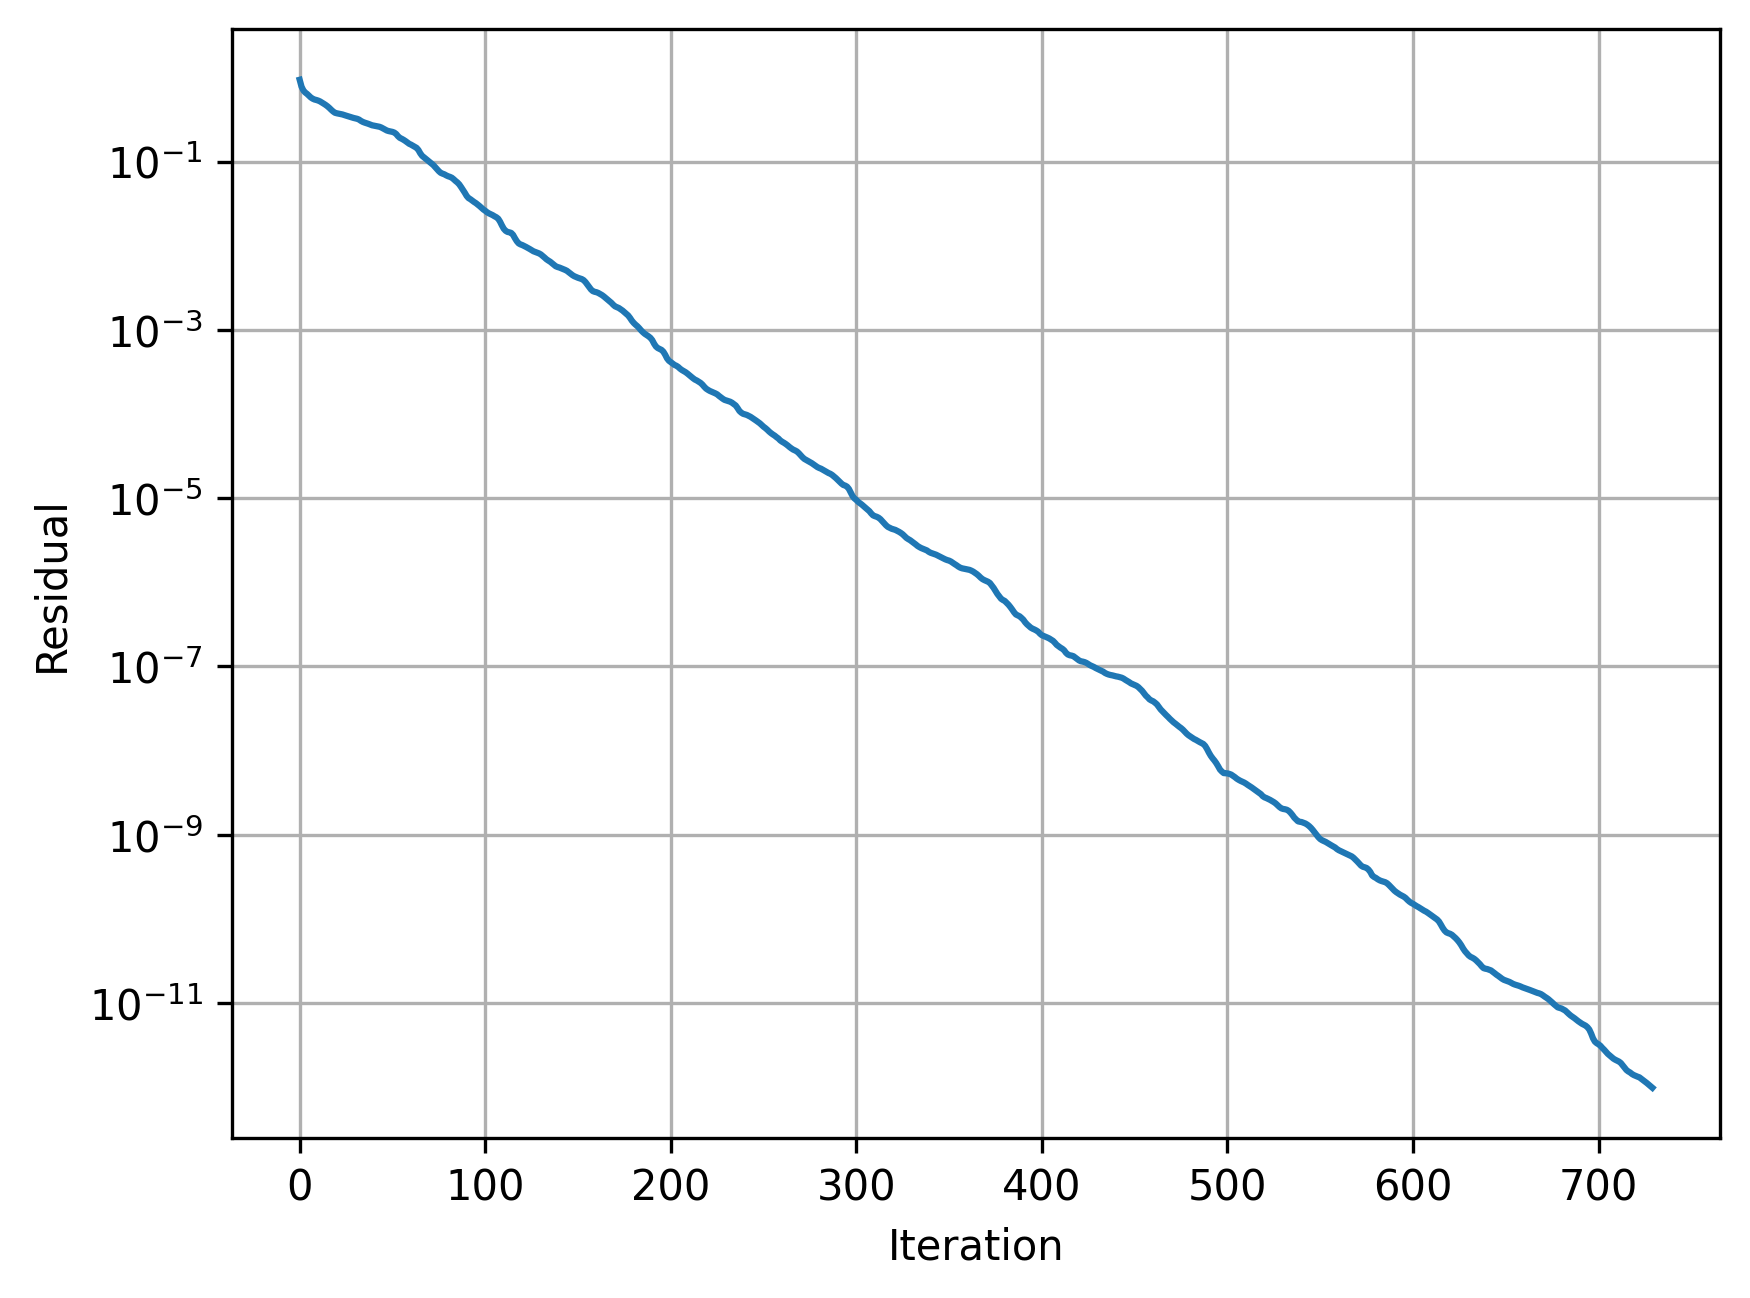
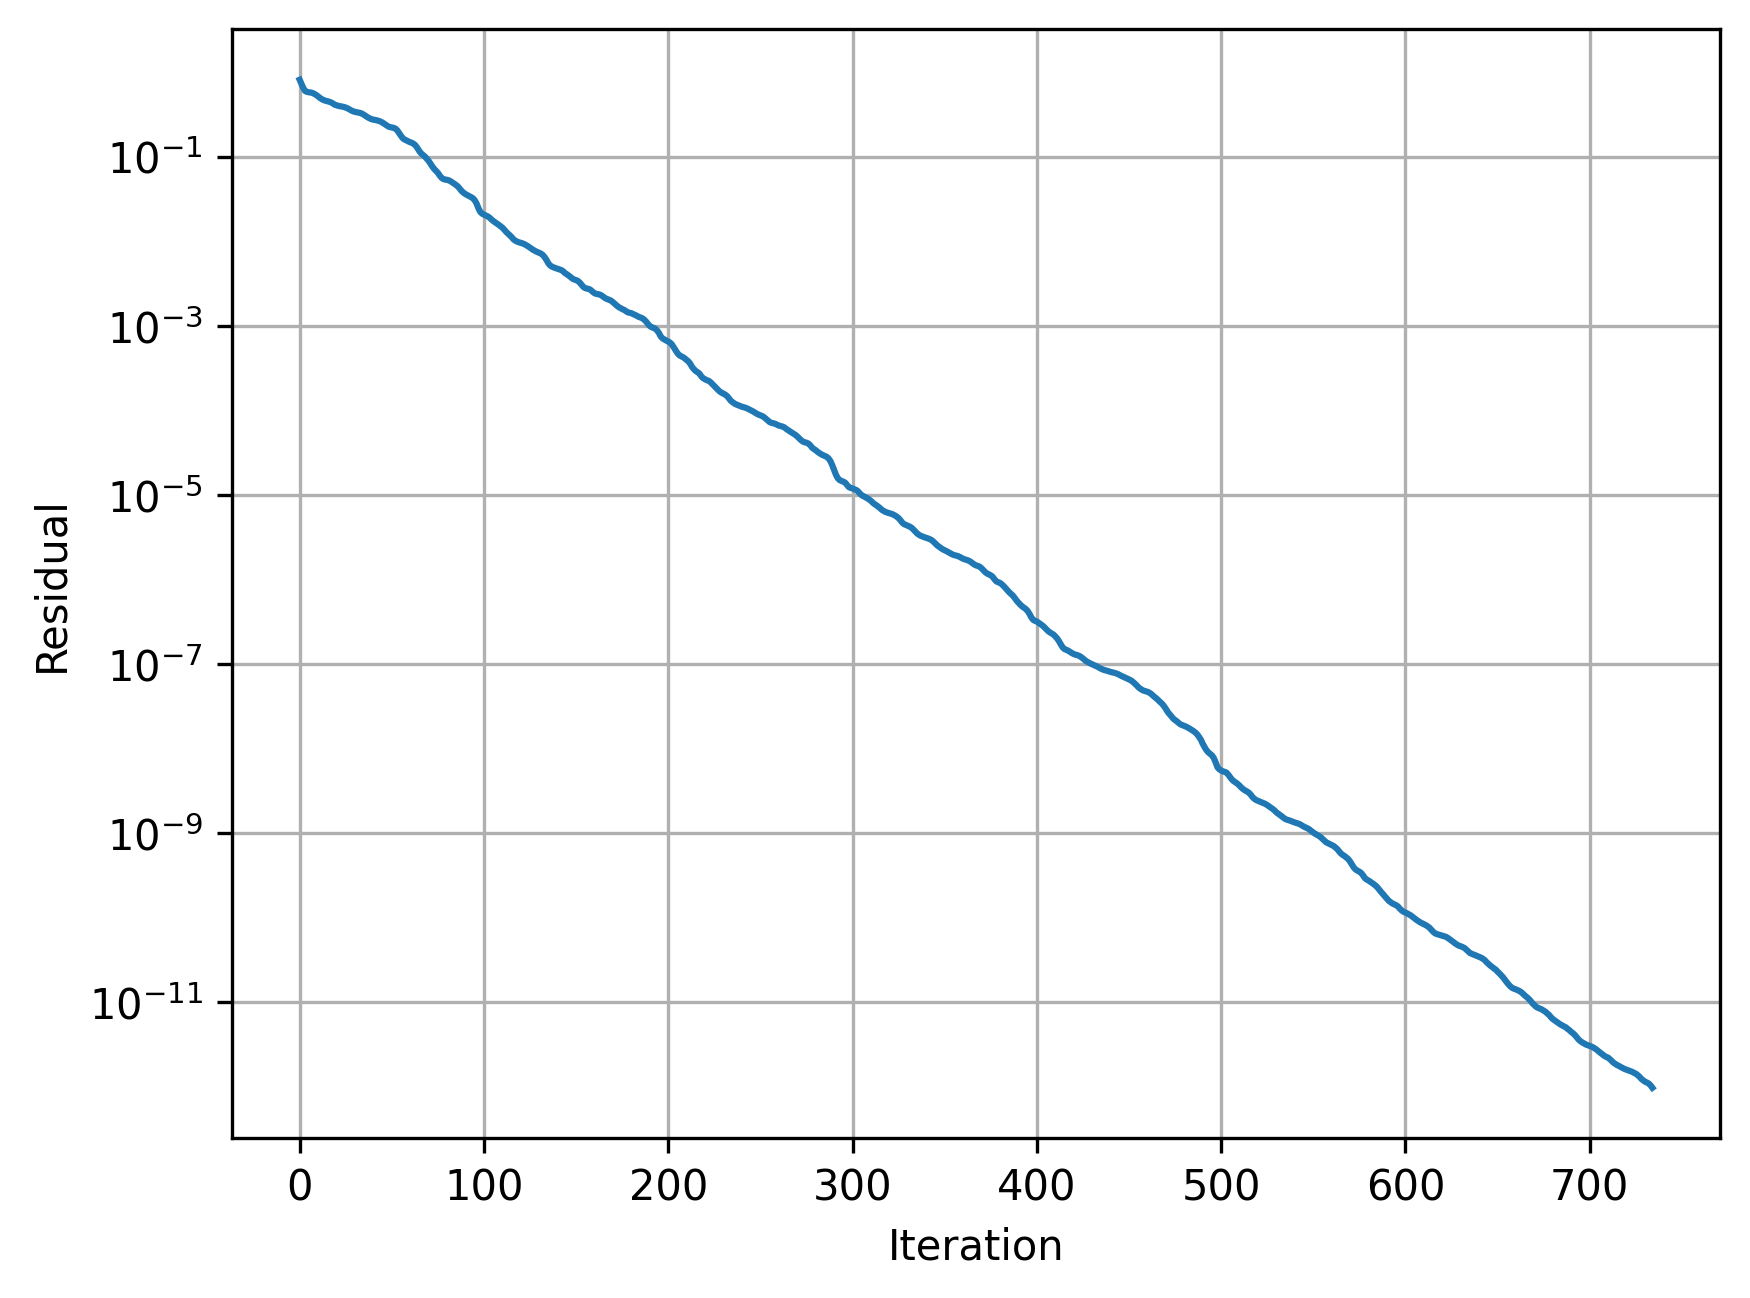
added utils

diff --git a/project2/main.py b/project2/main.py
@@ -8,57 +8,33 @@ from matplotlib import cm
 import matplotlib.pyplot as plt
 import matplotlib.tri as mtri
 from mpi4py import MPI
+from utils import mesh, mass, stiffness, plot_mesh, point_source
 
+#Global Variables
 na = np.newaxis
 comm = MPI.COMM_WORLD
 rank = comm.Get_rank()
 size = comm.Get_size()
 
-
-def mesh(nx,ny,Lx,Ly):
-   i = np.arange(0,nx)[na,:] * np.ones((ny,1), np.int64)
-   j = np.arange(0,ny)[:,na] * np.ones((1,nx), np.int64)
-   p = np.zeros((2,ny-1,nx-1,3), np.int64)
-   q = i+nx*j
-   p[:,:,:,0] = q[:-1,:-1]
-   p[0,:,:,1] = q[1: ,1: ]
-   p[0,:,:,2] = q[1: ,:-1]
-   p[1,:,:,1] = q[:-1,1: ]
-   p[1,:,:,2] = q[1: ,1: ]
-   v = np.concatenate(((Lx/(nx-1)*i)[:,:,na], (Ly/(ny-1)*j)[:,:,na]), axis=2)
-   vtx = np.reshape(v, (nx*ny,2))
-   elt = np.reshape(p, (2*(nx-1)*(ny-1),3))
-   return vtx, elt 
-
-
-
-
 def local_mesh(Lx, Ly, nx, ny):
     # Get MPI parameters
     J = size
     j = rank
-
     # Number of points per subdomain in y (with interface sharing)
     ny_loc = (ny - 1) // J + 1
-
     # Local vertical size
     Ly_loc = Ly / J
-
     # Build local mesh
     vtx_loc, elt_loc = mesh(nx, ny_loc, Lx, Ly_loc)
-
     # Shift to global y-position
     vtx_loc[:, 1] += j * Ly_loc
-
     return vtx_loc, elt_loc
 
 
 def local_boundary(nx, ny, j, J):
     ny_loc = (ny - 1) // J + 1
-
     phys = []
     artf = []
-
     # Bottom boundary 
     # important to notice that only the first subdomain has physical bottom boundary
     for i in range(nx - 1):
@@ -67,7 +43,6 @@ def local_boundary(nx, ny, j, J):
             phys.append(edge)
         else:
             artf.append(edge)
-
     # Top boundary
     # important to notice that only the last subdomain has physical top boundary
     offset = (ny_loc - 1) * nx
@@ -77,15 +52,12 @@ def local_boundary(nx, ny, j, J):
             phys.append(edge)
         else:
             artf.append(edge)
-
     # Left-Right boundary (always physical)
     for k in range(ny_loc - 1):
         phys.append([k * nx, (k + 1) * nx])
-
     for k in range(ny_loc - 1):
         phys.append([k * nx + nx - 1,
                      (k + 1) * nx + nx - 1])
-
     return np.array(phys, dtype=int), np.array(artf, dtype=int)
 
 
@@ -96,15 +68,12 @@ def Rj_matrix(nx, ny, j, J):
     #  Define the mapping (Local index i maps to Global index k)
     # Local indices are simply 0, 1, 2... nv_loc-1
     rows = np.arange(0, nv_loc, 1, dtype=np.int64)
-    
     # Global indices are shifted based on the subdomain index 'j'
     # The shift (ny_loc - 1) * nx moves the "window" down the global vector
     cols = rows + j * (ny_loc - 1) * nx
-    
     # Fill the matrix with 1s
     # Each row of Rj has a single '1' at the column corresponding to the global node
     data = np.ones(nv_loc, dtype=np.float64)
-    
     # Create the Sparse Matrix
     # Shape is (local_nodes, global_nodes)
     Rj = csr_matrix((data, (rows, cols)), shape=(nv_loc, nv), dtype=np.float64)
@@ -128,7 +97,6 @@ def Cj_matrix(nx, ny, j, J):
     nv_loc = nx * ny_loc
     sizeCrow = (J - 1) * nx
     sizeCcol = nx if j == 0 or j == J - 1 else 2 * nx   
-
     rows = np.arange(0, sizeCrow, 1, dtype=np.int64)
     cols = np.zeros(sizeCcol, dtype=np.int64)
     if j == 0:
@@ -138,84 +106,10 @@ def Cj_matrix(nx, ny, j, J):
     else:
         cols[:nx] = np.arange(0, nx, 1, dtype=np.int64)
         cols[nx:] = np.arange((ny_loc - 1) * nx, ny_loc * nx, 1, dtype=np.int64)
-    
     data = np.ones(sizeCrow, dtype=np.float64)
     Cj = csr_matrix((data, (rows, cols)), shape=(sizeCrow, sizeCcol), dtype=np.float64)
     return Cj
 
-def boundary(nx, ny):
-    bottom = np.hstack((np.arange(0,nx-1,1)[:,na],
-                        np.arange(1,nx,1)[:,na]))
-    top    = np.hstack((np.arange(nx*(ny-1),nx*ny-1,1)[:,na],
-                        np.arange(nx*(ny-1)+1,nx*ny,1)[:,na]))
-    left   = np.hstack((np.arange(0,nx*(ny-1),nx)[:,na],
-                        np.arange(nx,nx*ny,nx)[:,na]))
-    right  = np.hstack((np.arange(nx-1,nx*(ny-1),nx)[:,na],
-                        np.arange(2*nx-1,nx*ny,nx)[:,na]))
-    return np.vstack((bottom, top, left, right))
-
-def get_area(vtx, elt):
-    d = np.size(elt, 1)
-    if d == 2:
-        e = vtx[elt[:, 1], :] - vtx[elt[:, 0], :]
-        areas = la.norm(e, axis=1)
-    else:
-        e1 = vtx[elt[:, 1], :] - vtx[elt[:, 0], :]
-        e2 = vtx[elt[:, 2], :] - vtx[elt[:, 0], :]
-        areas = 0.5 * np.abs(e1[:,0] * e2[:,1] - e1[:,1] * e2[:,0])
-    return areas
-
-def mass(vtx, elt):
-    nv = np.size(vtx, 0)
-    d = np.size(elt, 1)
-    areas = get_area(vtx, elt)
-    M = csr_matrix((nv, nv), dtype=np.float64)
-    for j in range(d):
-        for k in range(d):
-           row = elt[:,j]
-           col = elt[:,k]
-           val = areas * (1 + (j == k)) / (d*(d+1))
-           M += csr_matrix((val, (row, col)), shape=(nv, nv))
-    return M
-
-def stiffness(vtx, elt):
-    nv = np.size(vtx, 0)
-    d = np.size(elt, 1)
-    areas = get_area(vtx, elt)
-    ne, d = np.shape(elt)
-    E = np.empty((ne, d, d-1), dtype=np.float64)
-    E[:,0,:] = 0.5 * (vtx[elt[:,1],0:2] - vtx[elt[:,2],0:2])
-    E[:,1,:] = 0.5 * (vtx[elt[:,2],0:2] - vtx[elt[:,0],0:2])
-    E[:,2,:] = 0.5 * (vtx[elt[:,0],0:2] - vtx[elt[:,1],0:2])
-    K = csr_matrix((nv, nv), dtype=np.float64)
-    for j in range(d):
-        for k in range(d):
-           row = elt[:,j]
-           col = elt[:,k]
-           val = np.sum(E[:,j,:] * E[:,k,:], axis=1) / areas
-           K += csr_matrix((val, (row, col)), shape=(nv, nv))
-    return K
-
-def point_source(sp, k):    
-    def ps(x):
-        v = np.zeros(np.size(x,0), float)
-        for s in sp:
-            v += s[2]*np.exp(-10*(k/(2.0*pi))**2 * la.norm(x - s[na,0:2], axis=1)**2)
-        return v
-    return ps 
-
-def plot_mesh(vtx, elt, val=None, **kwargs):
-    trig = mtri.Triangulation(vtx[:, 0], vtx[:, 1], elt)
-    if val is None:
-        plt.triplot(trig, **kwargs)
-    else:
-        plt.tripcolor(
-            trig, val,
-            shading='gouraud',
-            cmap=cm.jet,
-            **kwargs
-        )
-    plt.axis('equal')
 
 
 
@@ -224,7 +118,7 @@ def plot_mesh(vtx, elt, val=None, **kwargs):
 
 
 if __name__ == "__main__":
-    np.random.seed(1)
+    np.random.seed(1234)
     Lx = 1
     Ly = 2
     nx = int(1 + Lx * 32)

diff --git a/project2/utils.py b/project2/utils.py
@@ -1,0 +1,100 @@
+#! /usr/bin/python3
+from math import pi
+import numpy as np
+import numpy.linalg as la
+import scipy.sparse.linalg as spla
+from scipy.sparse import csr_matrix, csc_matrix
+from matplotlib import cm
+import matplotlib.pyplot as plt
+import matplotlib.tri as mtri
+na = np.newaxis
+
+
+def mesh(nx,ny,Lx,Ly):
+   i = np.arange(0,nx)[na,:] * np.ones((ny,1), np.int64)
+   j = np.arange(0,ny)[:,na] * np.ones((1,nx), np.int64)
+   p = np.zeros((2,ny-1,nx-1,3), np.int64)
+   q = i+nx*j
+   p[:,:,:,0] = q[:-1,:-1]
+   p[0,:,:,1] = q[1: ,1: ]
+   p[0,:,:,2] = q[1: ,:-1]
+   p[1,:,:,1] = q[:-1,1: ]
+   p[1,:,:,2] = q[1: ,1: ]
+   v = np.concatenate(((Lx/(nx-1)*i)[:,:,na], (Ly/(ny-1)*j)[:,:,na]), axis=2)
+   vtx = np.reshape(v, (nx*ny,2))
+   elt = np.reshape(p, (2*(nx-1)*(ny-1),3))
+   return vtx, elt 
+
+def boundary(nx, ny):
+    bottom = np.hstack((np.arange(0,nx-1,1)[:,na],
+                        np.arange(1,nx,1)[:,na]))
+    top    = np.hstack((np.arange(nx*(ny-1),nx*ny-1,1)[:,na],
+                        np.arange(nx*(ny-1)+1,nx*ny,1)[:,na]))
+    left   = np.hstack((np.arange(0,nx*(ny-1),nx)[:,na],
+                        np.arange(nx,nx*ny,nx)[:,na]))
+    right  = np.hstack((np.arange(nx-1,nx*(ny-1),nx)[:,na],
+                        np.arange(2*nx-1,nx*ny,nx)[:,na]))
+    return np.vstack((bottom, top, left, right))
+
+def get_area(vtx, elt):
+    d = np.size(elt, 1)
+    if d == 2:
+        e = vtx[elt[:, 1], :] - vtx[elt[:, 0], :]
+        areas = la.norm(e, axis=1)
+    else:
+        e1 = vtx[elt[:, 1], :] - vtx[elt[:, 0], :]
+        e2 = vtx[elt[:, 2], :] - vtx[elt[:, 0], :]
+        areas = 0.5 * np.abs(e1[:,0] * e2[:,1] - e1[:,1] * e2[:,0])
+    return areas
+
+def mass(vtx, elt):
+    nv = np.size(vtx, 0)
+    d = np.size(elt, 1)
+    areas = get_area(vtx, elt)
+    M = csr_matrix((nv, nv), dtype=np.float64)
+    for j in range(d):
+        for k in range(d):
+           row = elt[:,j]
+           col = elt[:,k]
+           val = areas * (1 + (j == k)) / (d*(d+1))
+           M += csr_matrix((val, (row, col)), shape=(nv, nv))
+    return M
+
+def stiffness(vtx, elt):
+    nv = np.size(vtx, 0)
+    d = np.size(elt, 1)
+    areas = get_area(vtx, elt)
+    ne, d = np.shape(elt)
+    E = np.empty((ne, d, d-1), dtype=np.float64)
+    E[:,0,:] = 0.5 * (vtx[elt[:,1],0:2] - vtx[elt[:,2],0:2])
+    E[:,1,:] = 0.5 * (vtx[elt[:,2],0:2] - vtx[elt[:,0],0:2])
+    E[:,2,:] = 0.5 * (vtx[elt[:,0],0:2] - vtx[elt[:,1],0:2])
+    K = csr_matrix((nv, nv), dtype=np.float64)
+    for j in range(d):
+        for k in range(d):
+           row = elt[:,j]
+           col = elt[:,k]
+           val = np.sum(E[:,j,:] * E[:,k,:], axis=1) / areas
+           K += csr_matrix((val, (row, col)), shape=(nv, nv))
+    return K
+
+def point_source(sp, k):    
+    def ps(x):
+        v = np.zeros(np.size(x,0), float)
+        for s in sp:
+            v += s[2]*np.exp(-10*(k/(2.0*pi))**2 * la.norm(x - s[na,0:2], axis=1)**2)
+        return v
+    return ps 
+
+def plot_mesh(vtx, elt, val=None, **kwargs):
+    trig = mtri.Triangulation(vtx[:, 0], vtx[:, 1], elt)
+    if val is None:
+        plt.triplot(trig, **kwargs)
+    else:
+        plt.tripcolor(
+            trig, val,
+            shading='gouraud',
+            cmap=cm.jet,
+            **kwargs
+        )
+    plt.axis('equal')
